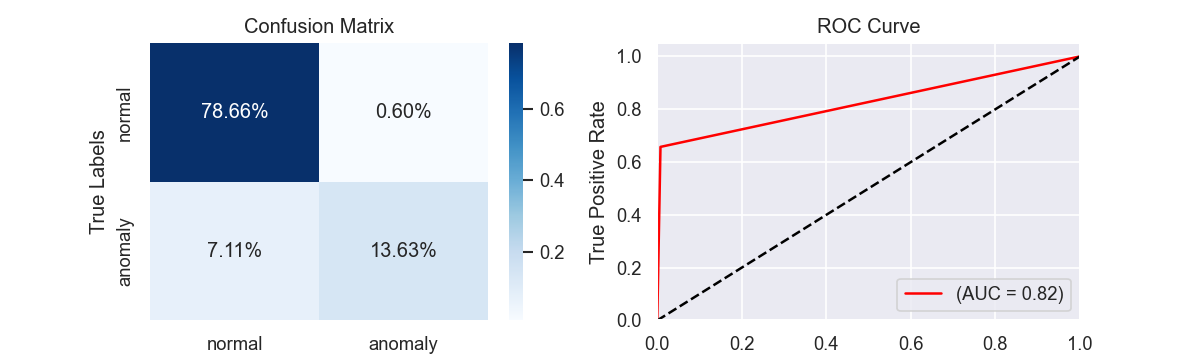
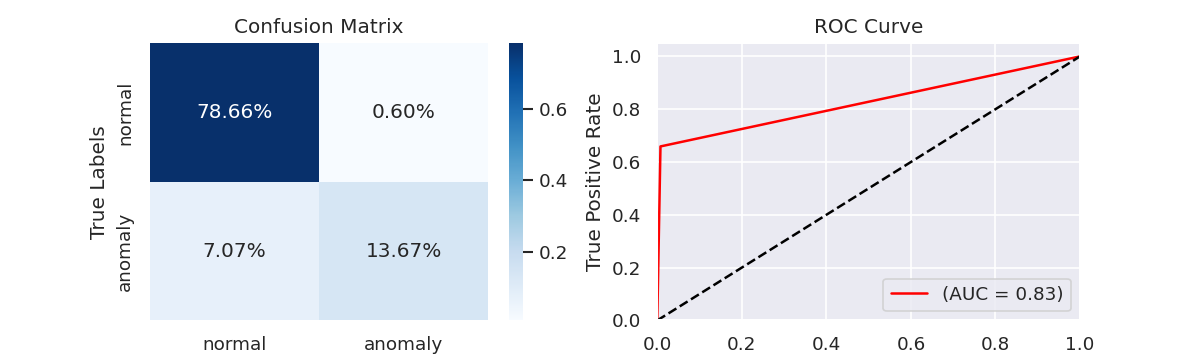
Update with new model and results

diff --git a/train.py b/train.py
@@ -1,4 +1,4 @@
-### Library and file imports 
+### Library and file imports
 import glob
 import os
 import pandas as pd
@@ -8,15 +8,26 @@ import matplotlib.pyplot as plt
 from sklearn.naive_bayes import GaussianNB
 from sklearn.preprocessing import MinMaxScaler
 from sklearn.model_selection import train_test_split
-from sklearn.metrics import confusion_matrix, roc_curve, auc, recall_score, precision_score, f1_score
+from sklearn.metrics import (
+    confusion_matrix,
+    roc_curve,
+    auc,
+    recall_score,
+    precision_score,
+    f1_score,
+)
 from sklearn.impute import SimpleImputer
 from sklearn.pipeline import Pipeline, FunctionTransformer
 from cloudpickle import dump
 
 path_to_normal_operation_files = r"./data/0"
 path_to_flow_instability_files = r"./data/4"
-all_normal_operation_files = glob.glob(os.path.join(path_to_normal_operation_files, "*.csv"))
-all_flow_instability_files = glob.glob(os.path.join(path_to_flow_instability_files, "*.csv"))
+all_normal_operation_files = glob.glob(
+    os.path.join(path_to_normal_operation_files, "*.csv")
+)
+all_flow_instability_files = glob.glob(
+    os.path.join(path_to_flow_instability_files, "*.csv")
+)
 
 print("Reading files...")
 ### Base samples
@@ -46,7 +57,7 @@ print("Starting preprocessing...")
 ### Creating Pipeline
 ## Preprocessing of the whole base
 # Observations without classification are discarded
-target_class = 'class'
+target_class = "class"
 df_pipe = df_source.dropna(subset=[target_class])
 X_pipe = df_pipe.drop(target_class, axis=1)
 y_pipe = df_pipe.loc[:, target_class]
@@ -60,18 +71,16 @@ print("Preprocessing done!")
 
 print("Assembling and executing pipeline...")
 ## Assembling pipeline with defined steps
-columns_to_drop = ['timestamp', 'T-JUS-CKGL']
+columns_to_drop = ["timestamp", "T-JUS-CKGL"]
 
-drop_function = FunctionTransformer(
-        lambda x: x.drop(columns=columns_to_drop, axis=1)
-)
-fill_mean = SimpleImputer(missing_values=np.nan, strategy='mean')
+drop_function = FunctionTransformer(lambda x: x.drop(columns=columns_to_drop, axis=1))
+fill_mean = SimpleImputer(missing_values=np.nan, strategy="mean")
 pipe = Pipeline(
     steps=[
-        ('dropout', drop_function),
-        ('fillna', fill_mean),
-        ('transform', MinMaxScaler()),
-        ('model', GaussianNB()),
+        ("dropout", drop_function),
+        ("fillna", fill_mean),
+        ("transform", MinMaxScaler()),
+        ("model", GaussianNB()),
     ]
 )
 pipe.fit(X_pipe_train, y_pipe_train)
@@ -80,43 +89,53 @@ print("Pipeline executed!")
 print("Creating metrics and report...")
 ## Metrics
 predictions = pipe.predict(X_pipe_test)
-metrics_data = {'accuracy': (pipe.score(X_pipe_test, y_pipe_test)),
-                'recall': (recall_score(y_pipe_test.values, predictions, pos_label=4)),
-                'precision': (precision_score(y_pipe_test.values, predictions, pos_label=4)),
-                'f1-score': (f1_score(y_pipe_test.values, predictions, pos_label=4)),
-                'cm': confusion_matrix(y_pipe_test, predictions)}
+metrics_data = {
+    "accuracy": (pipe.score(X_pipe_test, y_pipe_test)),
+    "recall": (recall_score(y_pipe_test.values, predictions, pos_label=4)),
+    "precision": (precision_score(y_pipe_test.values, predictions, pos_label=4)),
+    "f1-score": (f1_score(y_pipe_test.values, predictions, pos_label=4)),
+    "cm": confusion_matrix(y_pipe_test, predictions),
+}
 
 try:
-    os.mkdir('results')
+    os.mkdir("results")
 except FileExistsError:
     pass
 
-with open('results/metrics.txt', 'w') as outfile:
-    outfile.write(f"\nAccuracy = {round(metrics_data['accuracy'], 4)}, " + 
-                    f"Recall = {round(metrics_data['recall'], 4)}, " +
-                    f"Precision = {round(metrics_data['precision'], 4)}, " +
-                    f"F1 Score = {round(metrics_data['f1-score'], 4)}")
+with open("results/metrics.txt", "w") as outfile:
+    outfile.write(
+        f"\nAccuracy = {round(metrics_data['accuracy'], 4)}, "
+        + f"Recall = {round(metrics_data['recall'], 4)}, "
+        + f"Precision = {round(metrics_data['precision'], 4)}, "
+        + f"F1 Score = {round(metrics_data['f1-score'], 4)}"
+    )
 
 ## Results Report
 sns.set_theme()
 fig, axs = plt.subplots(1, 2, figsize=(10, 3))
 
-sns.heatmap(metrics_data['cm']/np.sum(metrics_data['cm']), annot=True, fmt='.2%', cmap='Blues', ax=axs[0])
-axs[0].set_xlabel('Predicted Labels')
-axs[0].set_ylabel('True Labels')
-axs[0].xaxis.set_ticklabels(['normal', 'anomaly'])
-axs[0].yaxis.set_ticklabels(['normal', 'anomaly'])
-axs[0].set_title('Confusion Matrix')
+sns.heatmap(
+    metrics_data["cm"] / np.sum(metrics_data["cm"]),
+    annot=True,
+    fmt=".2%",
+    cmap="Blues",
+    ax=axs[0],
+)
+axs[0].set_xlabel("Predicted Labels")
+axs[0].set_ylabel("True Labels")
+axs[0].xaxis.set_ticklabels(["normal", "anomaly"])
+axs[0].yaxis.set_ticklabels(["normal", "anomaly"])
+axs[0].set_title("Confusion Matrix")
 
 fpr, tpr, thresholds = roc_curve(y_pipe_test, predictions, pos_label=4)
-auc_score = (auc(fpr, tpr))
-axs[1].plot(fpr, tpr, label=f'(AUC = {auc_score:.2f})', color='red')
-axs[1].plot([0, 1], [0, 1], color='black', linestyle='--')
+auc_score = auc(fpr, tpr)
+axs[1].plot(fpr, tpr, label=f"(AUC = {auc_score:.2f})", color="red")
+axs[1].plot([0, 1], [0, 1], color="black", linestyle="--")
 axs[1].set_xlim([0.0, 1.0])
 axs[1].set_ylim([0.0, 1.05])
-axs[1].set_xlabel('False Positive Rate')
-axs[1].set_ylabel('True Positive Rate')
-axs[1].set_title(f'ROC Curve')
+axs[1].set_xlabel("False Positive Rate")
+axs[1].set_ylabel("True Positive Rate")
+axs[1].set_title(f"ROC Curve")
 axs[1].legend(loc="lower right")
 
 plt.plot()
@@ -126,11 +145,11 @@ plt.savefig("results/model_results.png", dpi=120)
 model_file = "model/anomaly_detector_pipeline.pkl"
 
 try:
-    os.mkdir('model')
+    os.mkdir("model")
 except FileExistsError:
     pass
 
-with open(model_file, 'wb') as pkl_file:
+with open(model_file, "wb") as pkl_file:
     dump(pipe, pkl_file)
 
 print("Done!")
